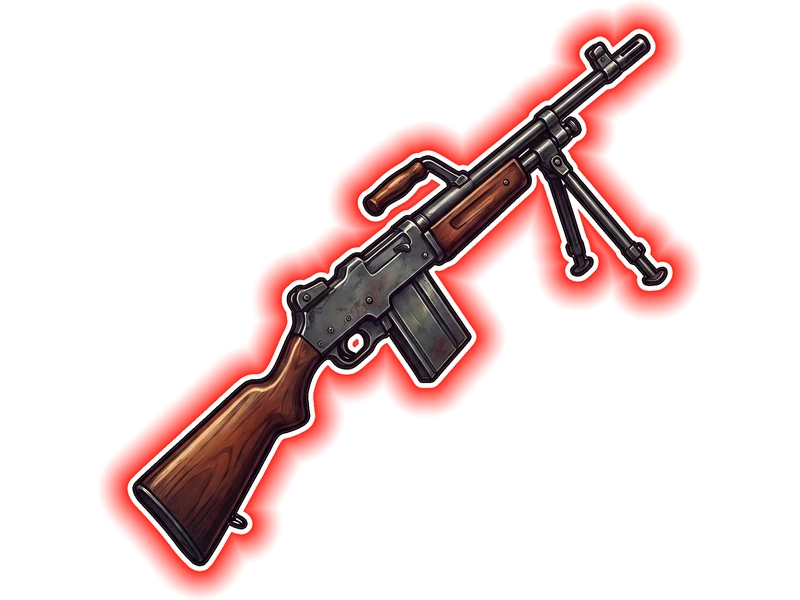
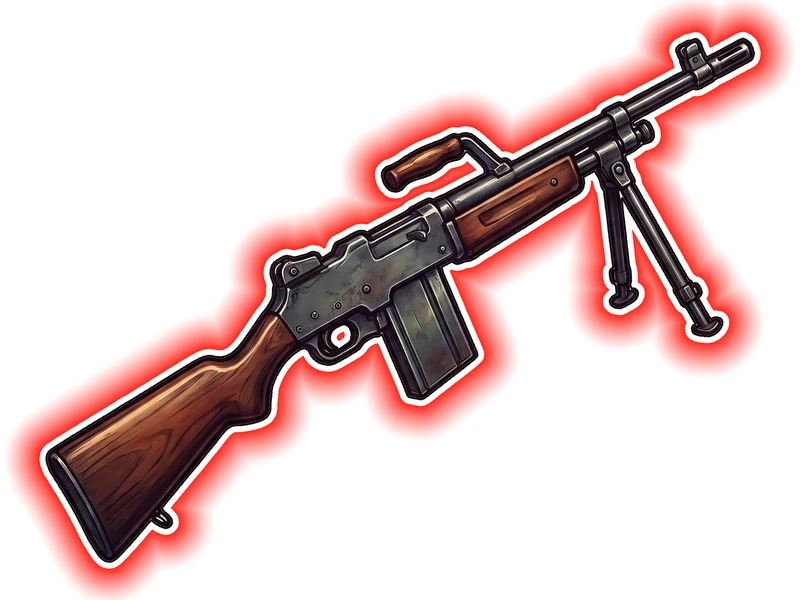
feat: armas giradas para a horizontal (8 a 12 graus) e enchendo o slot 4:3 (R-SLOT-1)

diff --git a/tools/recorta_armas.py b/tools/recorta_armas.py
@@ -1,4 +1,4 @@
-# Recorta as armas (JPG com xadrez gravado) e gera 3 versoes por arma em 4:3 (800x600): "comum" (borda preta), "epico" (borda branca + brilho vermelho) e "lendario" (borda branca + brilho roxo). Ver R-ARTE-2, R-SLOT-1.
+# Recorta as armas (JPG com xadrez gravado), gira cada uma para ficar quase horizontal (so assim enche um slot 4:3) e gera 3 versoes em 4:3 (800x600): "comum" (borda preta), "epico" (borda branca + brilho vermelho) e "lendario" (borda branca + brilho roxo). Ver R-ARTE-2, R-SLOT-1.
 # Uso: python -I tools/recorta_armas.py (origens em Downloads, veja FILES).
 import glob, os, sys
 import numpy as np
@@ -74,6 +74,27 @@ def mascara_arma(path, vaos):
     return im, interno
 
 
+def melhor_angulo(interno):
+    """Gira a arma (só no sentido horário, até 70 graus, ou 20 graus no anti-horário) para ela encher ao máximo um quadro 4:3."""
+    img = Image.fromarray((interno * 255).astype(np.uint8))
+    img.thumbnail((600, 600))
+    melhor = (0, -45)
+    for ang in range(-70, 21):
+        a = np.array(img.rotate(ang, expand=True, resample=Image.BILINEAR)) > 127
+        ys, xs = np.where(a)
+        w, h = xs.max() - xs.min() + 1, ys.max() - ys.min() + 1
+        escala = min(4.0 / w, 3.0 / h)  # quanto da moldura 4:3 a arma ocupa
+        if escala > melhor[0]:
+            melhor = (escala, ang)
+    return melhor[1]
+
+
+def girar(rgb, interno, ang):
+    r = rgb.rotate(ang, expand=True, resample=Image.BICUBIC, fillcolor=(0, 0, 0))
+    m = Image.fromarray((interno * 255).astype(np.uint8)).rotate(ang, expand=True, resample=Image.BICUBIC)
+    return r, np.array(m) > 127
+
+
 def camadas(rgb, interno, tipo):
     """Monta a imagem RGBA completa (na resolução da origem). tipo: 'comum' ou 'epico'."""
     d = ndi.distance_transform_edt(~interno)  # distância (px) até a arma
@@ -127,6 +148,9 @@ for wid, padrao in FILES.items():
         print("NAO ACHEI", padrao)
         sys.exit(1)
     rgb, interno = mascara_arma(achados[0], VAOS.get(wid, ()))
+    ang = melhor_angulo(interno)
+    rgb, interno = girar(rgb, interno, ang)
+    print(wid, "girada", ang, "graus")
     ys, xs = np.where(interno)
     w0, h0 = xs.max() - xs.min(), ys.max() - ys.min()
     cx, cy = (xs.max() + xs.min()) // 2, (ys.max() + ys.min()) // 2

diff --git a/docs/REGRAS_DO_JOGO.md b/docs/REGRAS_DO_JOGO.md
@@ -144,7 +144,7 @@ Observação: com 7 minutos por ponto, uma missão de 15 energia custa 1h45 de e
 | R-MALA-7 | **Todo equipamento vai primeiro para a Mala; equipado não ocupa lugar** | Tudo que o jogador compra ou ganha (loja, drop de missão, chefão, qualquer origem) **vai primeiro para a Mala, e nunca é equipado sozinho** (vale também para armas, mesmo desarmado). Sem espaço na Mala, **a compra é recusada** (nada é cobrado) e o drop é perdido com aviso. **Da Mala:** equipar pelo botão "Equipar" ou **arrastando** o item para o slot certo do Equipamento (slot errado não aceita) ou para o painel da Arma. **O item equipado SAI da Mala e não ocupa lugar**; trocar o item de um slot devolve o antigo para a Mala. **Guardar de volta:** clicar no item equipado, ou arrastá-lo para a Mala; se a Mala estiver cheia, aparece o aviso "Mala cheia" e nada muda. Os itens equipados continuam no save (o servidor os confere por ali) | **Fundador, 2026-11-12** | `weaponSlot.ts` (`bagEntries` com `gearIds`), `state.ts` (`placeItem`, `equipGear`, `unequipGear`, `equippedGearIds`), `main.ts` | `malaEquipamento.test.ts`, `weaponSlot.test.ts`, `gear.test.ts`; visto no localhost |
 | R-MALA-8 | **Vender só na loja, arrastando para a zona de venda** | O botão "Vender" do perfil **saiu**. Na aba **Mercado Negro** aparece a **Mala** embaixo (só com a aba Mala) e uma **zona de venda** no alto da loja: **arraste um item da Mala até ela para vender**, por **metade do preço**. Pede **confirmação** ("Não dá para desfazer") e depois avisa o valor recebido. Só item que está **na Mala** pode ser vendido (equipado precisa voltar para a Mala antes) | **Fundador, 2026-11-12** | `index.html` (`#sell-zone`), `main.ts`, `style.css` | `malaEquipamento.test.ts`; visto no localhost (arrastar, confirmar, vender) |
 | R-ARMA-7 | **O painel da Arma é só a foto** | O painel mostra **apenas a imagem da arma** (grande, em 4:3). Nome, dano, categoria e o resto aparecem **só no balão ao passar o mouse**, que também diz "Clique ou arraste para a Mala para guardar". **Saíram** o texto "Arma equipada", o botão "Guardar na Mala" e a dica de arrastar. Clicar na foto, ou arrastá-la para a Mala, guarda a arma. Desarmado mostra um ícone apagado | **Fundador, 2026-11-12** | `index.html`, `main.ts` (`renderWeaponSlot`) | `malaEquipamento.test.ts` |
-| R-SLOT-1 | **Todos os slots são 4:3** | **No tema escuro os slots ficam um pouco mais claros** (fundo e linha), porque itens escuros sumiam. **As imagens das armas também são 4:3 (800 x 600)** e a arma ocupa quase toda a altura, para preencher o slot (as armas enviadas eram 1:1, foram reenquadradas). Os slots da **Mala** (8,8 x 6,6 rem) e do **Equipamento** são **4:3** (mais largos que altos), porque a arma, que é comprida, ficava pequena em slot quadrado. O slot da Mala **não mostra atributo nenhum** (nem dano da arma, nem selo "USO"): tudo isso só no balão ao passar o mouse (reforça R-MALA-5) | **Fundador, 2026-11-12** | `style.css` (final), `main.ts` (`renderInventoryGrid`) | `malaEquipamento.test.ts` |
+| R-SLOT-1 | **Todos os slots são 4:3** | **No tema escuro os slots ficam um pouco mais claros** (fundo e linha), porque itens escuros sumiam. **As imagens das armas também são 4:3 (800 x 600)** e a arma ocupa quase toda a altura e **fica quase na horizontal** (girada de 8 a 12 graus no sentido horário, escolhido por arma para encher ao máximo o quadro 4:3; as imagens enviadas eram 1:1 com a arma na diagonal). Script: `tools/recorta_armas.py`. Os slots da **Mala** (8,8 x 6,6 rem) e do **Equipamento** são **4:3** (mais largos que altos), porque a arma, que é comprida, ficava pequena em slot quadrado. O slot da Mala **não mostra atributo nenhum** (nem dano da arma, nem selo "USO"): tudo isso só no balão ao passar o mouse (reforça R-MALA-5) | **Fundador, 2026-11-12** | `style.css` (final), `main.ts` (`renderInventoryGrid`) | `malaEquipamento.test.ts` |
 | R-ARMA-6 | **Nova arma: Springfield M1903 de Precisão (valores PROVISÓRIOS)** | Rifle de precisão, categoria rifle, **dano 30 a 54**, 1 disparo, entra **no fim do catálogo** (não muda o nível nem o preço das outras armas; na loja vira nível 53). Valores e posição são **do Claude, a calibrar na C6**. Na mão e na arena usa o desenho do Garand até haver o próprio | **Fundador (arma), Claude (números)**, 2026-11-12 | `weapons.ts`, `weaponSprites.ts` | `weaponArt.test.ts` |
 | R-EVENTO-1 | **O chefão é uma "missão especial" do servidor, dentro de Missões** | O chefão (Operação Lei Seca) aparece **no alto da aba Missões**, como "MISSÃO ESPECIAL DO SERVIDOR", e **periodicamente**, só quando há evento. Hoje ele aparece **sempre** e o jogador luta sozinho; a batalha coletiva e o aparecer periódico **dependem do servidor** (ainda não existe) | **Fundador, 2026-11-12** | `index.html` (`#view-missoes`), `main.ts` (`renderRaidEvent`) | `skin.test.ts` |
 | R-DISTRITO-1 | **Aba Distritos: famílias de bots fortes (A DESENHAR)** | Pasta nova, **ainda vazia** (só um aviso). Ideia do fundador, com referência do Goodgame (distrito com uma família: uma fila de adversários cada vez mais fortes até um chefe, com recompensas valiosas, e ataque grátis com espera ou pago em ouro). Nome da aba provisório. **Nada implementado**; o fundador vai detalhar | **Fundador, 2026-11-12** | `index.html` (`#view-distritos`) | `skin.test.ts` (existe como pasta em desenho) |

diff --git a/STATUS.md b/STATUS.md
@@ -71,6 +71,7 @@ Provado no localhost contra o Supabase real (nível 1 no site até a conferênci
 - **Escrito e testado antes só com banco de mentira:** `src/server/` (regras, operações, ligação com o Supabase), `api/game.ts` (função da Vercel), `vite.config.ts` (mesma função no `npm run dev`), `src/shared/` (contas do jogador e do duelo usadas pelo jogo e pelo servidor), `src/web/cloudSync.ts` (salvar com espera, ranking, rivais, duelo) e a **migração 002** (colunas de placar, tabela `duels`, visão `public_players` com placar e arma).
 - **Funciona assim:** ao entrar, o servidor diz se a conta tem personagem. Sem personagem, o jogo abre a criação e o servidor cria (nome único). Com personagem, o save do servidor vale. A cada mudança o jogo manda o progresso ao servidor (espera de 1,5 s); o servidor confere e recusa exageros. Duelo: o servidor luta e devolve o replay. Se a função do servidor não responde, o jogo avisa e roda só neste navegador.
 - **Contas que já existiam:** o save local delas não é enviado (não dá para provar que é honesto); ao entrar com migração e Secret prontos, a conta cria o personagem de novo.
+- **Armas na horizontal (2026-11-12):** as 15 imagens foram giradas (8 a 12 graus) para encher o slot 4:3; ocupam 89% da largura e 88% da altura. Visto no localhost em slots 4:3 do jogo, nas três molduras. Não visto: Arma e Mala com conta real, loja, tooltip e tema bege.
 - **Slots e armas em 4:3 (2026-11-12):** slots do tema escuro mais claros; as 15 imagens de arma (5 armas x 3 molduras) reenquadradas em 4:3 e maiores no slot. Visto no localhost (Colt na Mala e painel da Arma vazio); varredura de contraste sem problemas no tema escuro. Não visto: o tema bege com as imagens novas e as molduras épica e lendária no slot.
 - **Lendário e origem das molduras (2026-11-12):** versão lendária (brilho roxo) das 5 armas criada; a loja não lista nem vende item de moldura épica ou lendária (regra do fundador). BAR e Springfield voltaram a comum. Testado por teste automático; não visto na tela depois da troca. Épico e lendário ainda não existem em nenhum item do jogo (dependem de distritos, Wanteds e eventos).
 - **Molduras das armas (2026-11-12):** recorte refeito, com 2 versões por arma: comum (borda preta) e épico (borda branca e brilho vermelho). BAR e Springfield aparecem como épico (provisório). Visto no localhost (painel da Arma com o Colt comum, loja com a Springfield épica). Não visto: o épico na Mala e nos balões.

diff --git a/DECISOES.md b/DECISOES.md
@@ -74,3 +74,4 @@ Mais recente no topo. Cada decisão: data, o que, quem decidiu.
 - **Molduras das armas (R-ARTE-2, 2026-11-12):** o fundador achou o recorte "mal cortado" e mostrou o estilo do Goodgame antigo: item comum com só borda preta, item épico com borda branca e brilho vermelho. O Claude refez o recorte e gerou as duas versões por arma. Qual arma usa qual moldura é provisório (BAR e Springfield como épico). *(Fundador; escolha das armas épicas do Claude, a confirmar)*
 - **Origem das molduras (R-ORIGEM-1, R-ARTE-2, 2026-11-12):** o fundador aprovou o recorte e definiu: o lendário é igual ao épico, com brilho roxo no lugar do vermelho; item épico NUNCA é vendido na loja (só se obtém matando integrantes de distritos ou Wanteds); lendário só por eventos. Por isso BAR e Springfield voltaram a comum (são vendidas) e a loja trava épico e lendário. *(Fundador)*
 - **Slots mais claros no tema escuro e armas em 4:3 (R-SLOT-1, 2026-11-12):** o fundador pediu os slots do tema escuro levemente mais claros e as imagens das armas reenquadradas de 1:1 para 4:3, maiores no slot. Feito: fundo do slot de #15100c para #2f261e; imagens em 800x600 com a arma ocupando quase toda a altura. *(Fundador)*
+- **Armas giradas para a horizontal (R-SLOT-1, 2026-11-12):** as armas ficavam na diagonal (45 graus) e sobrava espaço nos slots 4:3. Cada arma foi girada de 8 a 12 graus (Colt 8, Pump 11, Springfield 11, Tommy 12, BAR 11) e reenquadrada para ocupar quase todo o slot. *(Fundador pediu; Claude escolheu o ângulo)*
